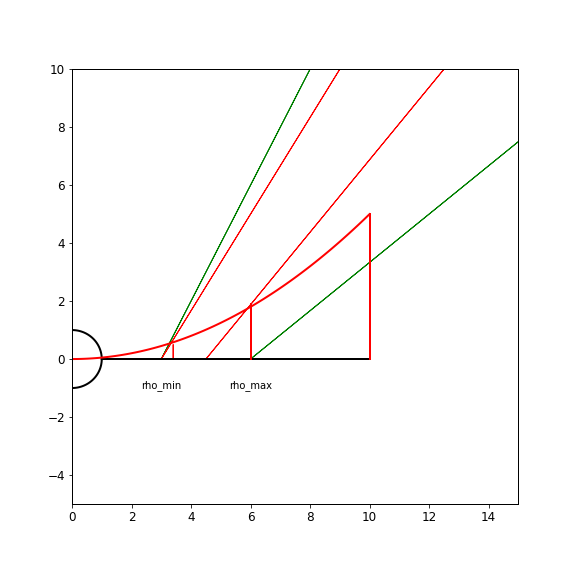
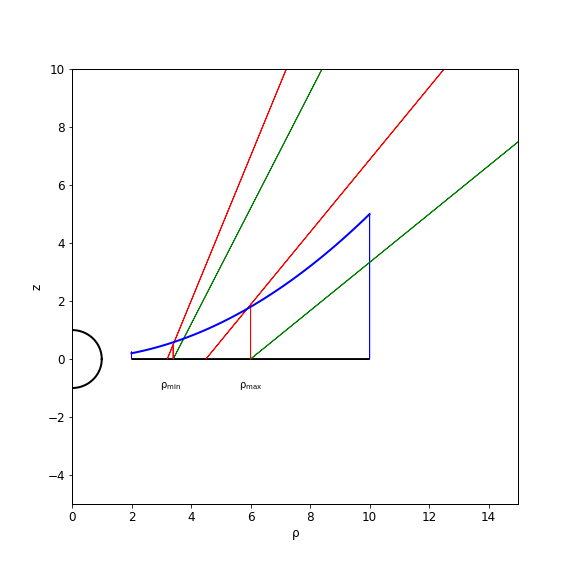
Documentation on how vertical disks are handled.

diff --git a/docs/sphinx/source/disk.rst b/docs/sphinx/source/disk.rst
@@ -17,17 +17,22 @@ Vertically Extended disk (Details)
     :width: 300px
     :align: center
 
+The figure above explains the basics issues associated with a vertically extended disk.  The wind emerges from the actual disk between :math:`\rho_{min}` and :math:`\rho_{max}`.  
+
+
 In defining a vertically extended disk in the context of parameterized 
 models, such as  KWD of SV, one needs to decide how to tranlated values from
 a parameterized wind on a flat disk to a parameterized wind on verticallye extended
 disk.   The choices we have made are (intended to be) as follows:
 
-* The temperature of a vertically extended disk are given by the distance from the central object. 
-* The magnitude of the poloidal velocity at the footpoint is the same as the flat 
-  disk that underines it.
+* The temperature and luminosity of a vertically extended disk are given by the distance from the central object in the disk plane. 
 * The density at the base of the wind is defined as the same as the flat disk that underlies it.
-* For the KWD disk, the streamlines are the streamlines that reflect the focus position.  
-  For the SV model, the streamline direction is also determined by the footpoint on the flat disk.
+* The poloidal  (and rotational) velocity at the footpoint is the poloidal velocity along the streamline, starting with :math:`v_{}` at the actual surface of the disk. 
+* For the SV model, the streamline direction and velocity are determined by the distance from the central object along the disk plane.  This is not the same
+  as one would obtain by projecting the streamline back to the disk plane.
+* For the KWD disk,  stream line directions that reflect the focus position and the poloidal velocity ate taken from that expected by projecting 
+  the stream line back to the disk plane.
 
-(Note that the fact that we take most parameters from the flat disk at the same cylindrical distance from the central object, but the streamline directions from the footpoints introduces a small error
-in the mass loss rate of the wind that is generated compared to specified mass loss rate.)
+(Note that the in the KWD case, there is a slight inconsistency/inaccuracy  in calculating desired mass loss rates, because the mass loss rate is calculate as if the disk
+were flat, but the stream line directions are not exactly the same as due to the vertical extension of the disk.  There are also issues more generally because we do
+not take into account the fact that the disk area of a vertically extended disk is not exactly the same as that of a flat disk.)
